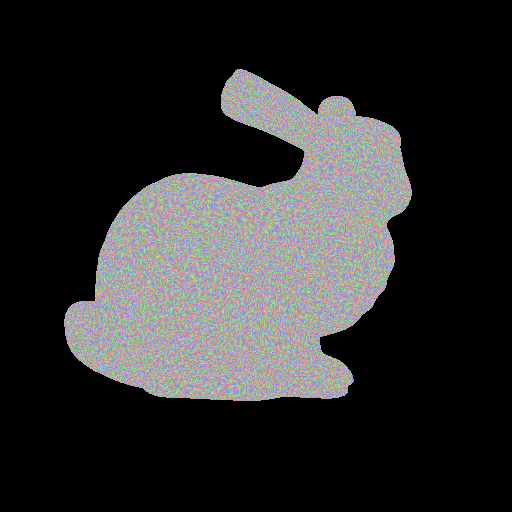
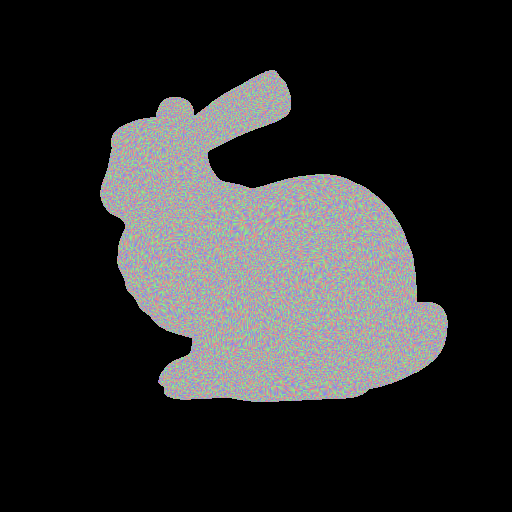
Fix line endings and resource files. Pinhole projection corrected.

diff --git a/pyegl/pyegl.cpp b/pyegl/pyegl.cpp
@@ -158,13 +158,13 @@ void render(std::vector<float>& intrinsics)
   transformations.SetModelView(rigids[0]);
   transformations.SetPinholeProjection(fovX, fovY, cX, cY, near, far, g_width, g_height);
 
-  #ifdef DEBUG
-  std::cout << "Pinhole camera:" << std::endl;
-  std::cout << " " << transformations.projection.m00 << " " << transformations.projection.m01 << " " << transformations.projection.m02 << " " << transformations.projection.m03 << std::endl;
-  std::cout << " " << transformations.projection.m10 << " " << transformations.projection.m11 << " " << transformations.projection.m12 << " " << transformations.projection.m13 << std::endl;
-  std::cout << " " << transformations.projection.m20 << " " << transformations.projection.m21 << " " << transformations.projection.m22 << " " << transformations.projection.m23 << std::endl;
-  std::cout << " " << transformations.projection.m30 << " " << transformations.projection.m31 << " " << transformations.projection.m32 << " " << transformations.projection.m33 << std::endl;
-  #endif
+  //#ifdef DEBUG
+  //std::cout << "Pinhole camera:" << std::endl;
+  //std::cout << " " << transformations.projection.m00 << " " << transformations.projection.m01 << " " << transformations.projection.m02 << " " << transformations.projection.m03 << std::endl;
+  //std::cout << " " << transformations.projection.m10 << " " << transformations.projection.m11 << " " << transformations.projection.m12 << " " << transformations.projection.m13 << std::endl;
+  //std::cout << " " << transformations.projection.m20 << " " << transformations.projection.m21 << " " << transformations.projection.m22 << " " << transformations.projection.m23 << std::endl;
+  //std::cout << " " << transformations.projection.m30 << " " << transformations.projection.m31 << " " << transformations.projection.m32 << " " << transformations.projection.m33 << std::endl;
+  //#endif
 
   transformations.SetMeshNormalization(mesh.GetCoG(), mesh.GetExtend());
 

diff --git a/pyegl/opengl_helper.h b/pyegl/opengl_helper.h
@@ -1135,17 +1135,35 @@ struct Transformations
     };
   }
 
-  // the correctives for cx, cy are applied since the rasterizer samples in the center of the pixel
-  // we need the rasterized values to map back to the pixel location
+  //void SetPinholeProjection(float fx, float fy, float cx, float cy, float near, float far, float width, float height)
+  //{
+  //    projection = {
+  //        2.0 * (fx) / width, 0.0, 2.0 * (cx) / width - 1.0, 0.0,
+  //        0.0, 2.0 * (fy) / height, 2.0 * (cy) / height - 1.0, 0.0,
+  //        0.0, 0.0, (far + near) / (near - far), (2 * far * near) / (near - far),
+  //        0.0, 0.0, -1.0, 0.0
+  //    };
+  //}
+
   void SetPinholeProjection(float fx, float fy, float cx, float cy, float near, float far, float width, float height)
   {
       projection = {
-          2.0 * (fx) / width, 0.0, 1.0 - 2.0 * (cx - 0.5) / (width - 1), 0.0,
-          0.0, 2.0 * (fy) / height, 2.0 * (cy + 0.5) / (height - 1) - 1.0, 0.0,
+          2.0 * (fx) / width, 0.0, 0.0, 0.0,
+          0.0, 2.0 * (fy) / height, 0.0, 0.0,
           0.0, 0.0, (far + near) / (near - far), (2 * far * near) / (near - far),
           0.0, 0.0, -1.0, 0.0
       };
   }
+
+  //void SetPinholeProjection(float fx, float fy, float cx, float cy, float near, float far, float width, float height)
+  //{
+  //    projection = {
+  //        1.0, 0.0, 0.0, 0.0,
+  //        0.0, 1.0, 0.0, 0.0,
+  //        0.0, 0.0, 1.0, 0.0,
+  //        0.0, 0.0, 0.0, 1.0
+  //    };
+  //}
 
   void SetMeshNormalization(Eigen::Vector3f cog, float scale)
   {
